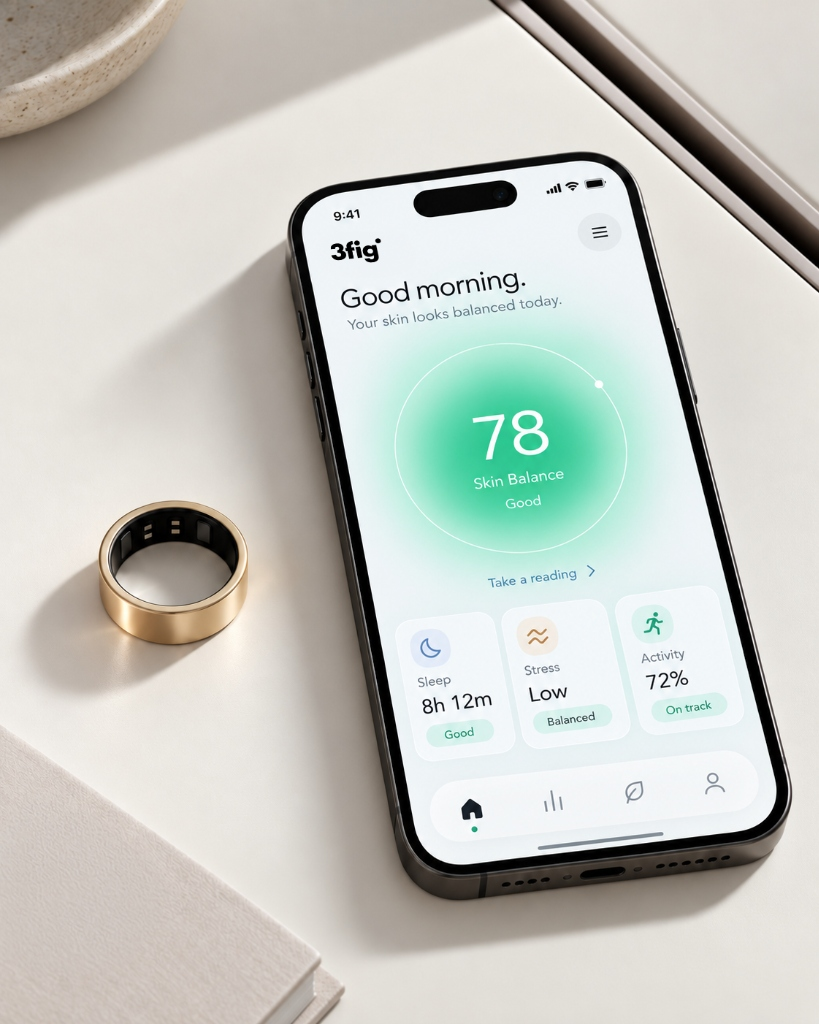
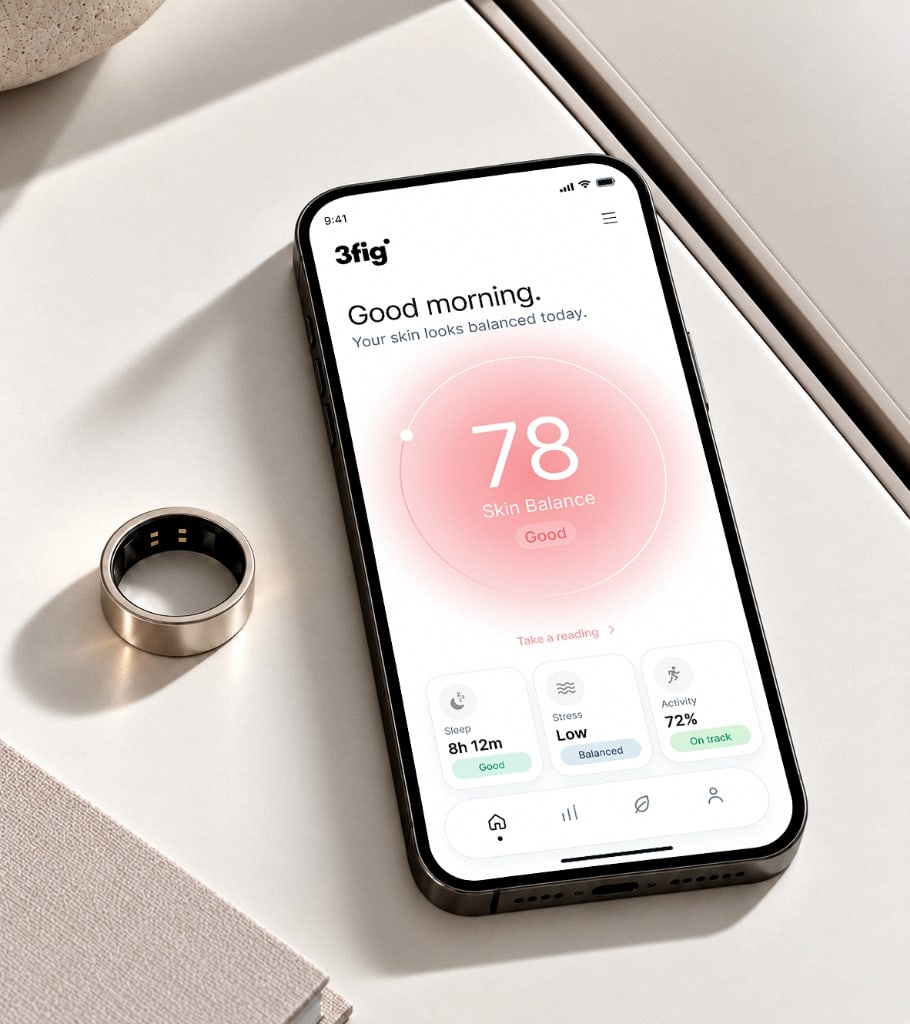
teaser4: update hero image to coral skin balance visual with webp/jpg optimization

diff --git a/components/threefig/teaser4-page-content.tsx b/components/threefig/teaser4-page-content.tsx
@@ -114,13 +114,17 @@ export function Teaser4PageContent({ initialOpen = false }: { initialOpen?: bool
             </p>
           </div>
           <div className="hero-visual" aria-hidden="true">
-            <img
-              src="/images/teaser4/hero-ring-phone.jpg"
-              alt="3fig smart ring next to the 3fig app showing Skin Balance score"
-              width={819}
-              height={1024}
-              fetchPriority="high"
-            />
+            <picture>
+              <source type="image/webp" srcSet="/images/teaser4/hero-ring-phone.webp" />
+              <img
+                src="/images/teaser4/hero-ring-phone.jpg"
+                alt="3fig smart ring next to the 3fig app showing Skin Balance score"
+                width={910}
+                height={1024}
+                fetchPriority="high"
+                decoding="async"
+              />
+            </picture>
           </div>
         </section>
 

diff --git a/app/teaser4.css b/app/teaser4.css
@@ -353,9 +353,12 @@
   background: #e6d8c5;
 }
 
+.teaser4-root .hero-visual picture,
+.teaser4-root .hero-visual img,
 .teaser4-root .hero-visual > img {
   width: 100%;
   height: 100%;
+  display: block;
   object-fit: cover;
   object-position: 50% 45%;
 }
@@ -1929,9 +1932,12 @@
     position: relative;
     overflow: hidden;
   }
+  .teaser4-root .hero-visual picture,
+  .teaser4-root .hero-visual img,
   .teaser4-root .hero-visual > img {
     width: 100%;
     height: 100%;
+    display: block;
     object-fit: cover;
     object-position: 50% 30%;
   }

diff --git a/app/teaser4/page.tsx b/app/teaser4/page.tsx
@@ -22,6 +22,7 @@ export default async function Teaser4Page({
   return (
     <>
       <link rel="preload" as="image" href="/review/assets/logo.png" />
+      <link rel="preload" as="image" href="/images/teaser4/hero-ring-phone.webp" type="image/webp" />
       <link rel="preload" as="image" href="/images/teaser4/hero-ring-phone.jpg" />
       <Teaser4PageContent initialOpen={initialOpen} />
     </>
